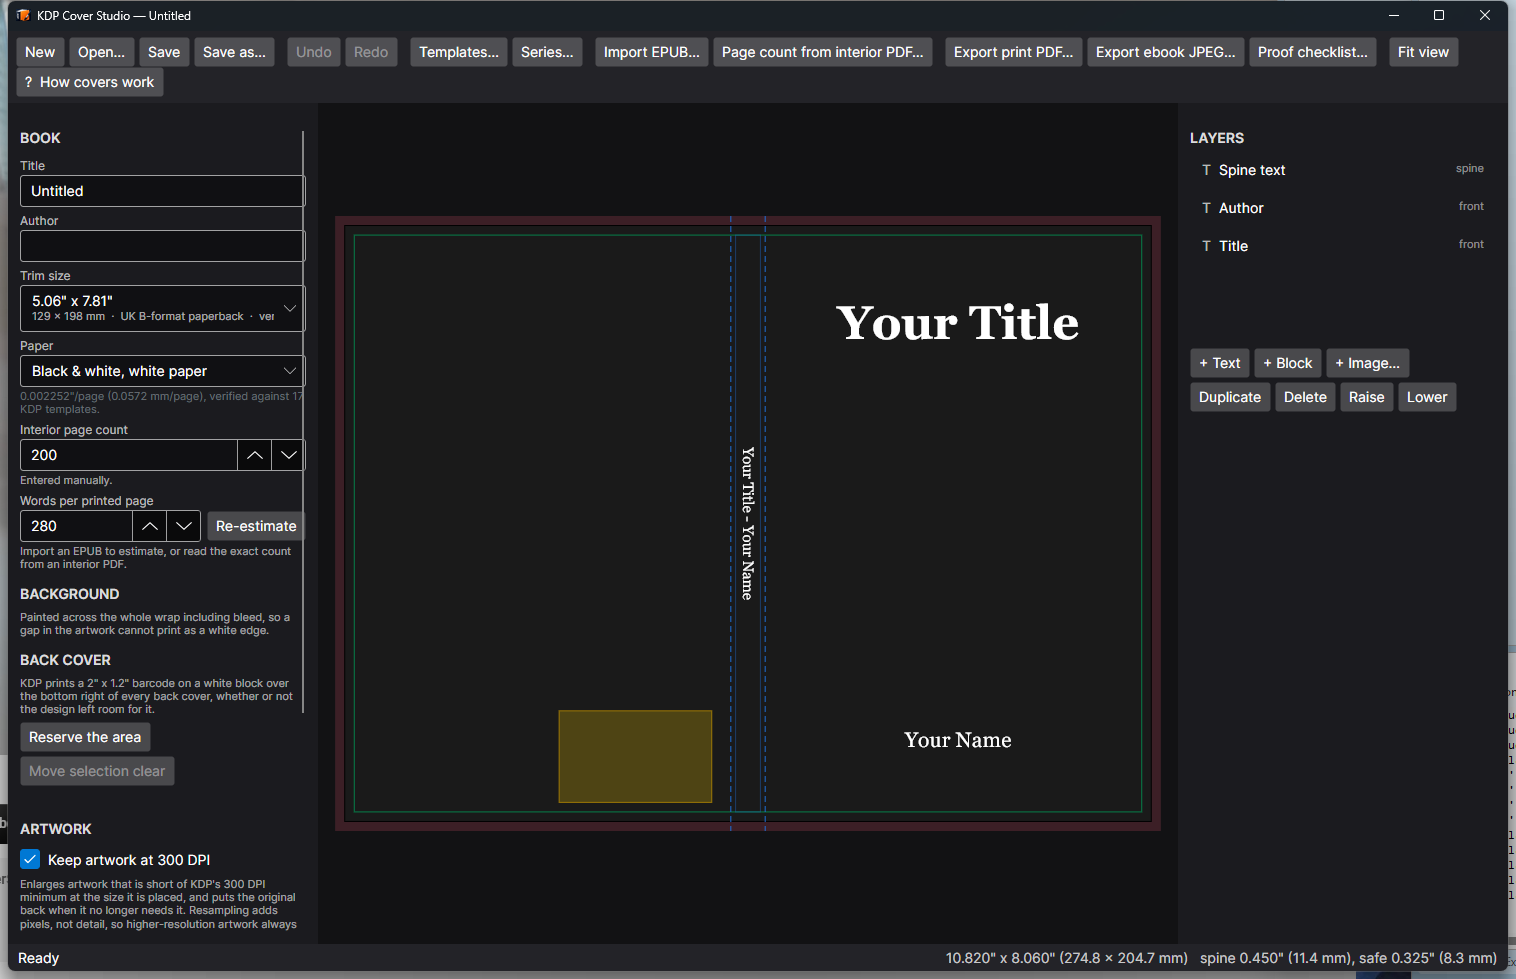
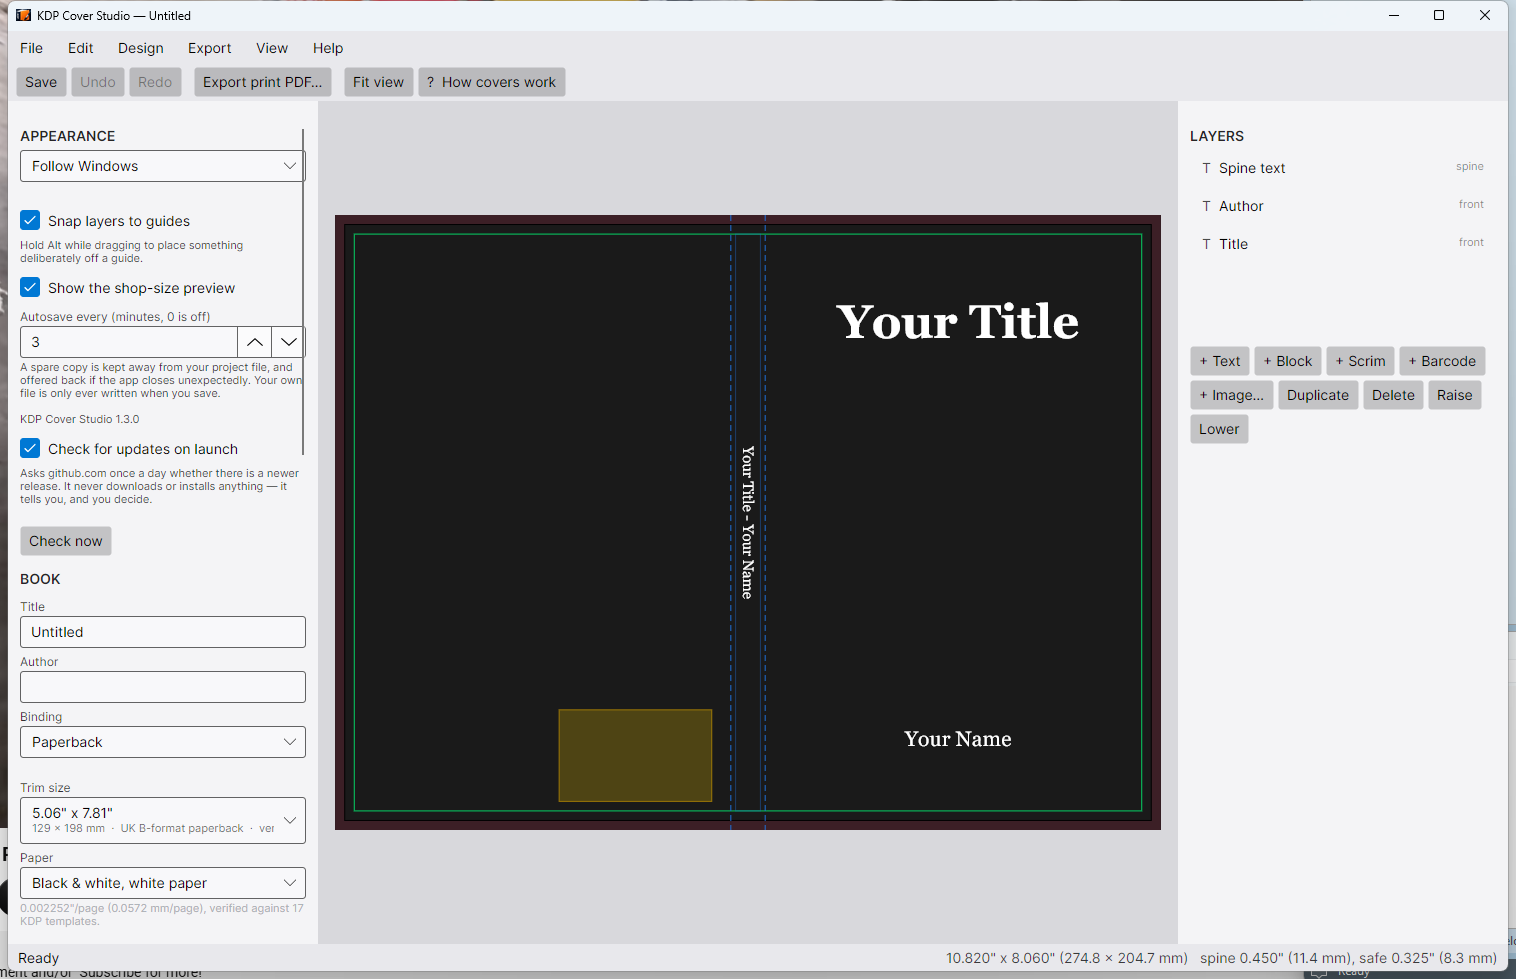
Document 1.3.0: hardcover, barcodes, volume splitting, scrims, autosave
README rewritten for the 1.3.0 feature set and rebuilt corpus figures (22
templates, 18 B&W-white for caliper verification). Screenshots recaptured
from the running 1.3.0 build, now showing the light theme, the menu bar,
hardcover geometry with hinges, and a real EAN-13 rendered from an ISBN.

diff --git a/README.md b/README.md
@@ -1,6 +1,6 @@
 # KDP Cover Studio
 
-A Windows desktop app for designing print-ready Amazon KDP paperback covers — back, spine and front as a single wrap — and exporting the PDF that KDP actually accepts.
+A Windows desktop app for designing print-ready Amazon KDP covers — paperback or case laminate hardcover, back, spine and front as a single wrap — and exporting the PDF that KDP actually accepts.
 
 **[Download the latest release »](https://github.com/raymondjstone/KDP-Cover-Studio/releases/latest)**
 
@@ -10,21 +10,31 @@ A Windows desktop app for designing print-ready Amazon KDP paperback covers — 
 
 ## What it does
 
-You set the trim size, the paper and the interior page count. The app derives the wrap geometry from those — spine width, bleed, safe areas, fold tolerance, barcode reserve — and draws it to scale. You drag artwork onto a panel, set the type, and export.
+You set the binding, the trim size, the paper and the interior page count. The app derives the wrap geometry from those — spine width, bleed, safe areas, fold tolerance, hinges, barcode reserve — and draws it to scale. You drag artwork onto a panel, set the type, and export.
 
-The geometry is not estimated. It is derived from Amazon's own cover template PDFs and verified continuously against a corpus of 17 of them.
+The geometry is not estimated. It is derived from Amazon's own cover template PDFs and verified continuously against a corpus of 22 of them, covering both bindings, five paper stocks and two trim sizes.
 
 ### Getting the spine right
 
-`spine width = page count × paper caliper`. For KDP's black-and-white white paper that caliper is **0.002252 inches per page**, and it is identical to seven decimal places across every template in the corpus.
+`spine width = page count × paper caliper`. For KDP's black-and-white white paper that caliper is **0.002252 inches per page**, identical to seven decimal places across all 18 B&W-white templates in the corpus.
 
 Several popular online spine calculators add a "+0.06 inch cover allowance". Amazon's own templates do not, and adding it shifts spine text visibly off-centre. This app does not add it.
 
-The binding constraint on spine text is the **safe** width, not the spine width. A 200-page book has a 0.450" spine but only 0.325" you can actually set type in. The status bar shows both, always.
+The binding constraint on spine text is the **safe** width, not the spine width. A 200-page paperback has a 0.450" spine but only 0.325" you can actually set type in. The status bar shows both, always.
+
+### Hardcover is a different shape, not a bigger paperback
+
+![Hardcover geometry with hinges](docs/screenshots/02-hardcover.png)
+
+A case laminate cover wraps rigid boards, so the printed sheet is larger than the book in every direction and gains a **hinge** each side of the spine where the case flexes. Nothing readable may go there — it is not merely unsafe like the spine's fold tolerance, it is a crease with no board behind it, in a known place, on every copy. The editor draws the hinges and preflight enforces them.
+
+**KDP specifies hardcover in millimetres**, and that is not a presentational detail. Every distance came out of the template as a round metric figure — 15 mm of wrap, 10 mm of hinge, 5 mm of board inset, 6 mm of overhang. Expressing them as rounded inches instead put the spine fold out by 0.007 pt, which the acceptance gate caught.
+
+One honest gap: the split of the spine between paper and boards is **inferred from a single template**, since one template is one equation with two unknowns. The app says so where you can see it, rather than presenting a derived figure as a measured one.
 
 ### Trim sizes have names
 
-The default is 5.06" × 7.81" — which is the **UK B-format paperback**, 129 × 198 mm. The picker says so, because an author looking for a standard UK paperback is looking for "B-format", not for an inch figure that is an artefact of KDP being a US service. A5, UK Royal and A4 are named on the same basis.
+The default is 5.06" × 7.81" — the **UK B-format paperback**, 129 × 198 mm. The picker says so, because an author looking for a standard UK paperback is looking for "B-format", not for an inch figure that is an artefact of KDP being a US service. A5, UK Royal and A4 are named on the same basis.
 
 Every dimension on screen carries both units: `0.450" (11.4 mm)`. There is no units toggle — a cover is designed against inch-denominated rules and printed to a paper size named in millimetres, so both numbers are wanted.
 
@@ -40,53 +50,67 @@ Every dimension on screen carries both units: `0.450" (11.4 mm)`. There is no un
 | EPUB estimate | A **range**, never a bare number |
 | Manual | Whatever you enter |
 
-An EPUB does not contain the typography that determines page count, so an estimate carries ±20%. On a 300-page book that is ±0.135" of spine — more than double the fold tolerance. The app shows a range, keeps words-per-page editable and calibratable, and never lets an estimate look settled. Page counts outside KDP's 24–828 range raise an error rather than being silently clamped.
+An EPUB does not contain the typography that determines page count, so an estimate carries ±20%. On a 300-page book that is ±0.135" of spine — more than double the fold tolerance. The app shows a range, keeps words-per-page editable and calibratable, and never lets an estimate look settled.
 
-### Design templates
+**A book over KDP's 828-page maximum can be split into volumes.** The splitter proposes page ranges and can build a series from them; it does not touch your manuscript, because where a book should break is an editorial judgement. Given an EPUB it splits at document boundaries — most EPUBs put one chapter in one document, so the breaks are real ones. Volumes come out deliberately uneven: a reader notices a chapter cut in half and never notices thirty pages of difference.
+
+### Your own ISBN, as a real barcode
+
+![A barcode rendered from an ISBN](docs/screenshots/04-barcode.png)
+
+Only needed if you are using your own ISBN — KDP prints its own barcode for the free one.
+
+A barcode is the one thing on a cover with a right answer that nobody can check by eye, so the tests **decode the rendered pixels back into digits** the way a scanner does and assert the ISBN comes out. Asserting that bars were drawn would pass on a transposed digit, an inverted parity pattern or a missing quiet zone.
+
+| Rule | Why it is not a style choice |
+|---|---|
+| The check digit is recomputed, never trusted | It exists to catch a mistyped digit, and the failure is a barcode that scans cleanly and returns somebody else's book |
+| ISBN-10 is validated **before** conversion | Converting first turns a typo into a valid ISBN-13 for a different book |
+| Nothing is hyphenated, ever | Correct hyphenation needs the ISBN range table; guessing at fixed positions prints a plausible number grouped wrong |
+| Bars drawn with **antialiasing off** | At 300 DPI a module is ~4 px, so a half-pixel of grey each side is a real fraction of a bar width |
+| The white ground covers the quiet zones | They only exist as white. Cropping to "just the bars" is the commonest reason a printed barcode fails |
+| Below 0.8× magnification is an **error** | A barcode has no spectrum of quality — it reads at the till or it does not |
+| Not black on white is an **error** | Many scanners are red lasers, and red ink under red light is white |
+
+### Design templates and series
 
 ![Templates picker](docs/screenshots/03-templates.png)
 
-Six built-in designs, plus any you save yourself. Every preview shows the design **applied to your book** — its trim size, its page count, your artwork, your title — rendered through the same engine as the final PDF. A stock picture of a design cannot answer the only question worth asking.
+Six built-in designs, plus any you save yourself. Every preview shows the design **applied to your book** — its binding, trim size and page count, your artwork, your title — rendered through the same engine as the final PDF. A stock picture of a design cannot answer the only question worth asking.
 
-Applying a template is a re-placement, not a copy: every layer is repositioned relative to its own panel, because a layout designed on a 5.06" B-format means nothing on an 8.5" one. Templates carry structure, typography and colour — never anyone else's title, and never licensed artwork.
+Applying a template is a re-placement, not a copy: every layer is repositioned relative to its own panel. All six built-ins cover **all three panels**, unlike most cover templates in the wild, which are a front and nothing else — leaving you the two genuinely hard parts: spine type inside the fold tolerance, and back-cover copy clear of the barcode.
 
-All six built-ins cover **all three panels**. Most cover templates in the wild are a front and nothing else, which leaves you to solve the two genuinely hard parts: spine type inside the fold tolerance, and back-cover copy clear of the barcode KDP prints whether or not you left room for it.
+**Series mode** shares a binding, trim size, paper and design across volumes; only the title, artwork and page count differ — and the page count is what makes each spine a different width. Batch export refuses one volume and still writes the rest.
 
-### Series
+### Type over artwork, done properly
 
-![Series builder](docs/screenshots/04-series.png)
+A **scrim** is a gradient fading from one edge to nothing — the professional answer to type over busy artwork, where the amateur answers are a hard-edged bar (looks stuck on) and a heavy outline (muddies letterforms at thumbnail size). The ramp is eased rather than linear, because a straight alpha ramp leaves a visible corner where it lands on zero.
 
-Volumes share a trim size, paper and design; only the title, the artwork and the page count differ — and the page count is what makes each spine a different width, which is the tedious part to get right one book at a time.
+A scrim is translucent, so it must sit **below** the type or the whole cover loses its vector text. Three things make sure it does: new ones are inserted below text, preflight warns by name if one ends up above type, and the properties panel says what it costs.
 
-Batch export **refuses one volume and still writes the rest**. Four fine and one broken is the case it exists to handle.
+**Spine sections** let you place type in a third of the spine — and the thirds are thirds of the *safe* length, not the spine, because thirds of the spine run into the trim.
 
 ### Artwork at 300 DPI, automatically
 
-Artwork short of KDP's 300 DPI minimum is resampled up to the pixels it needs at the size it is placed, and the enlargement comes back off when it is no longer needed. Three rules keep it honest:
+Artwork short of KDP's minimum is resampled up to the pixels it needs at the size it is placed, and the enlargement comes back off when it is no longer needed. Always exactly one step from the original, and it stops at 4× and says the file is simply too small rather than inventing further. Preflight reports every enlarged layer, because resampling adds pixels, not detail.
 
-- **Always exactly one step from the original.** Resampling a resample compounds the softening.
-- **It reverts.** Shrink the image and the original comes back.
-- **It stops at 4×**, and says so. Past that, interpolation invents more than it preserves — preflight goes on reporting the cover as short of 300 DPI, which is the true answer: the file is too small.
-
-Resampling adds pixels, not detail. Preflight says so on every enlarged layer, and so does the layer panel.
+Layers **snap to the guides** as you drag them — hold Alt to place something deliberately off a guide.
 
 ### Colour
 
-Background, text, text outline (colour *and* width) and colour blocks are all editable, each with a picker, a hex box and an eyedropper. The hex box matters: a cover often has to match a series or an imprint's palette, and those arrive as `#1E6FD9`, not as a position on a wheel.
+Background, text, text outline and colour blocks are all editable, each with a picker, a hex box and an eyedropper. The hex box matters: a cover often has to match a series or an imprint's palette, and those arrive as `#1E6FD9`, not as a position on a wheel.
 
-Each picker shows a **CMYK gamut estimate inline**, at the point of decision. Being told at export that a red you chose an hour ago will print dull is true but late. The estimate returns a swatch of the likely printed colour, and says plainly that it is an estimate and not a soft proof.
+Each picker shows a **CMYK gamut estimate inline**, at the point of decision. The eyedropper samples the **rendered cover with guides off**, not the screen, so you cannot click your artwork and get the colour of a guide overlay. A magnifier loupe follows the pointer while it is armed.
 
-The eyedropper samples the **rendered cover with guides off**, not the screen — so you cannot click your artwork and get the colour of a guide overlay. A magnifier loupe follows the pointer while it is armed.
+A **palette** travels with the document rather than living in settings — it is what keeps volume three matching volumes one and two, and it has to survive the project being handed on. Eyedropper samples are kept automatically, since those are the colours with no other record anywhere.
+
+### The shop-size preview
+
+A pane showing the **front panel, trimmed, at about 40 mm** — the size a shop actually shows a cover, and the size at which you should judge it. Trimmed rather than with bleed, because the bleed is guillotined off before anybody sees it and including it flatters the design. It renders through the same exporter as the print file, so it cannot show you something kinder than what prints.
 
 ### Live preflight
 
-Checked continuously, not just at export:
-
-- Artwork below 300 DPI at the size it is placed
-- Spine text outside the safe width, or set below legible size
-- Content colliding with the barcode reserve (with an assist that moves it clear, or refuses rather than half-solving)
-- **Missing glyphs** — Skia substitutes fonts per *face*, never per glyph, so a face without an em dash draws `.notdef` and carries on. Raised as an error: there is no version of this that prints acceptably.
-- Page counts outside KDP's accepted range
+Checked continuously, not just at export: artwork below 300 DPI at the size it is placed; spine text outside the safe width or below legible size; content in a hardcover hinge; content colliding with the barcode reserve; barcodes too small or not black on white; a scrim above the type; and **missing glyphs** — Skia substitutes fonts per *face*, never per glyph, so a face without an em dash draws `.notdef` and carries on. Raised as an error: there is no version of this that prints acceptably.
 
 ### Export
 
@@ -102,17 +126,25 @@ Checked continuously, not just at export:
 | Optimise file size | Artwork as JPEG, text as vector — typically ~300 KB, not tens of MB |
 | No file security | Nothing encrypts the output |
 
-Transparency is flattened **without losing the type**. Rasterising the whole cover would flatten it and also destroy the text — at 300 DPI a 10pt spine title is ~42 px, permanently. Instead the stack is split by z-order: everything from the first non-opaque layer downwards composites into one opaque JPEG, and opaque text above that is drawn as real PDF text on top. No transparency anywhere, and the type stays resolution-independent.
+Transparency is flattened **without losing the type**. Rasterising the whole cover would flatten it and also destroy the text — at 300 DPI a 10pt spine title is ~42 px, permanently. Instead the stack is split by z-order: everything from the first non-opaque layer downwards composites into one opaque JPEG, and opaque text above that is drawn as real PDF text on top.
 
-*Worth knowing:* a translucent layer at the very top of the stack forces the whole cover to be flattened, because nothing can be lifted above it without changing what covers what. If a design loses its sharp type, look for a translucent element sitting over everything.
+*Worth knowing:* a translucent layer at the very top of the stack forces the whole cover to be flattened. If a design loses its sharp type, look for a translucent element sitting over everything.
 
-**Ebook cover JPEG** — a standalone front cover at the aspect ratio the store wants, with each option explained in terms of what it costs *on this book*.
+**Ebook cover JPEG** — a standalone front cover at the aspect ratio the store wants, with each option explained in terms of what it costs on this book.
 
 **Proof checklist** — written for a **bound** copy, which is what KDP sends. Half the useful measurements only exist once the thing is folded.
 
+### Your work is kept safe
+
+Autosaves go to `%LOCALAPPDATA%\KDPCoverStudio\recovery\`, **never to your project file**. An autosave that writes into the project destroys "close without saving" — which is how people back out of an experiment, and they only find it is gone after relying on it. If the app closes unexpectedly you are offered the copy back, and you can decline. Recovered covers open with no file path, so a reflexive Save cannot overwrite the on-disk version with a different cover.
+
+The copy is a full package including artwork, because autosaving just the document recovers a cover with every image missing — which *looks* like it worked.
+
+A log is written to `%LOCALAPPDATA%\KDPCoverStudio\logs\`, readable while the app runs.
+
 ### Help that is drawn to your book
 
-![How a KDP cover works](docs/screenshots/02-how-covers-work.png)
+![How a KDP cover works](docs/screenshots/05-how-covers-work.png)
 
 The anatomy diagram is rendered from your cover's own geometry. A 90-page paperback shows a spine sliver captioned "usable 2.0 mm"; a 700-page one shows a spine wide enough to design into. Amazon's illustration shows one example and always will.
 
@@ -123,25 +155,29 @@ The anatomy diagram is rendered from your cover's own geometry. A 90-page paperb
 1. Download `KDPCoverStudio.msi` from the [latest release](https://github.com/raymondjstone/KDP-Cover-Studio/releases/latest).
 2. Run it. It installs to Program Files for all users, adds a Start menu shortcut, and registers the `.kdpcoverstudio` file type so projects open on double-click.
 
-**Requirements: 64-bit Windows 10 or 11. Nothing else.** The installer is self-contained — the .NET runtime and all native libraries ship inside it, so there is no prerequisite to install first.
+**Requirements: 64-bit Windows 10 or 11. Nothing else.** The installer is self-contained — the .NET runtime and all native libraries ship inside it.
 
 Windows SmartScreen may warn on first run, as it does for any installer that is not code-signed. Choose *More info* → *Run anyway*.
 
+The app follows your Windows light/dark setting, or you can pin either. It can check GitHub once a day for a newer release — it never downloads or installs anything, it tells you and you decide — and the setting says in plain words that it contacts github.com. Turn it off and nothing is sent.
+
 ### Project files
 
-Projects are saved as `.kdpcoverstudio` — a ZIP holding the document plus a copy of every image used, named by content hash. Your artwork is copied in, so a project survives its source images being moved, renamed or deleted, and it is one file to back up or send. The format is detected from the file's contents, not its extension, so renamed files still open.
+Projects are saved as `.kdpcoverstudio` — a ZIP holding the document plus a copy of every image used, named by content hash. Your artwork is copied in, so a project survives its source images being moved, renamed or deleted, and it is one file to back up or send. The format is detected from the file's contents, not its extension, so renamed files still open. Projects from every earlier version load unchanged.
 
 ---
 
 ## Current release
 
-**Version 1.1.0** — `KDPCoverStudio.msi`, 40.9 MB.
+**Version 1.3.0** — `KDPCoverStudio.msi`, 40.9 MB. See the [release notes](https://github.com/raymondjstone/KDP-Cover-Studio/releases/latest) for what changed.
+
+Verified at build: 547/547 tests and 220/220 template assertions.
 
 ### Known limitations
 
 - **Colour is sRGB; KDP converts to CMYK.** The in-app gamut check is an estimate, deliberately generous, and is not a soft proof — that needs the printer's ICC profile.
-- **Only KDP's black-and-white white paper caliper is corpus-verified.** Cream and colour stocks use Amazon's documented figures, and the app tells you which is which.
-- **`/TrimBox` and `/BleedBox`** are written where the exported file's structure allows it, and skipped rather than risking a malformed file where it does not. KDP does not require them.
+- **The hardcover spine allowance is inferred from one template**, not measured. A second case laminate template at a different page count would settle it. The app flags it as unverified.
+- **Only the black-and-white white paper caliper is corpus-verified.** Other stocks use Amazon's documented figures, and the app tells you which is which.
 - **No proof has been physically printed.** Everything is verified numerically against Amazon's templates, but the final check on colour and on how the spine fold actually lands is a printed copy.
 
 ---
@@ -150,4 +186,4 @@ Projects are saved as `.kdpcoverstudio` — a ZIP holding the document plus a co
 
 C# · .NET 10 · [Avalonia 11](https://avaloniaui.net/) · [SkiaSharp](https://github.com/mono/SkiaSharp) · WiX v5
 
-One renderer draws the editor, the raster export and the print PDF — they differ only in the canvas they are handed, so the preview cannot drift from what the printer receives.
+One renderer draws the editor, the shop-size preview, the raster export and the print PDF — they differ only in the canvas they are handed, so the preview cannot drift from what the printer receives.
